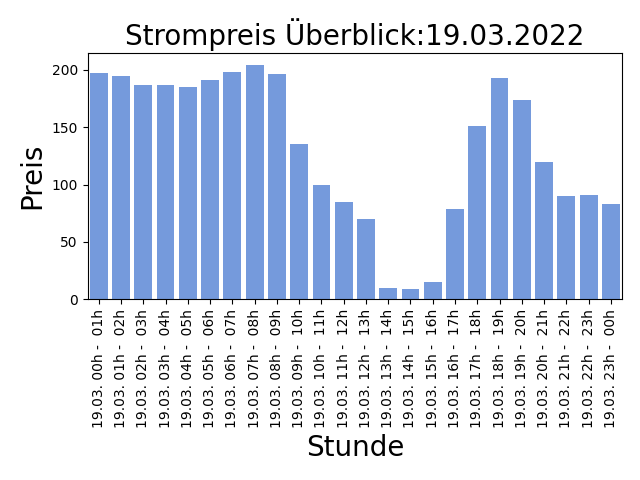
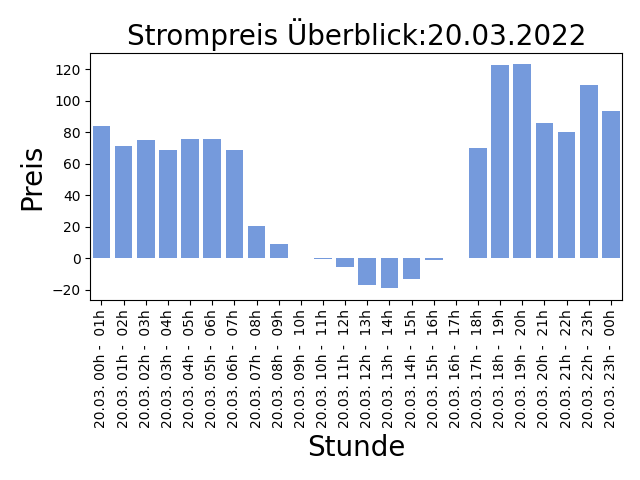
AUTOMATIC UPDATE PRICE LIST: 2022-03-19-14:30:14

diff --git a/README.md b/README.md
@@ -1,5 +1,5 @@
 
-## Strompreise für den 19.03.2022
+## Strompreise für den 20.03.2022
 
 Niedrige Preise deuten auf viel Sonnen und Windenergieerzeugung hin, ein hoher Anteil an erneuerbaren Energien bedeuted weniger CO2 Verbrauch!
 
@@ -7,31 +7,31 @@ Niedrige Preise deuten auf viel Sonnen und Windenergieerzeugung hin, ein hoher A
 
 | Stunde | Preis in Eur/MWh |
 |---|---|
-| 19.03. 00h -  01h | 196.67 | 
-| 19.03. 01h -  02h | 194.82 | 
-| 19.03. 02h -  03h | 187.02 | 
-| 19.03. 03h -  04h | 187.0 | 
-| 19.03. 04h -  05h | 185.06 | 
-| 19.03. 05h -  06h | 190.8 | 
-| 19.03. 06h -  07h | 198.23 | 
-| 19.03. 07h -  08h | 204.14 | 
-| 19.03. 08h -  09h | 196.11 | 
-| 19.03. 09h -  10h | 135.07 | 
-| 19.03. 10h -  11h | 99.55 | 
-| 19.03. 11h -  12h | 85.08 | 
-| 19.03. 12h -  13h | 69.71 | 
-| 19.03. 13h -  14h | 10.0 | 
-| **19.03. 14h -  15h** | **8.84** | 
-| 19.03. 15h -  16h | 14.74 | 
-| 19.03. 16h -  17h | 79.0 | 
-| 19.03. 17h -  18h | 151.01 | 
-| 19.03. 18h -  19h | 192.8 | 
-| 19.03. 19h -  20h | 173.27 | 
-| 19.03. 20h -  21h | 119.96 | 
-| 19.03. 21h -  22h | 89.99 | 
-| 19.03. 22h -  23h | 91.13 | 
-| 19.03. 23h -  00h | 82.85 | 
+| 20.03. 00h -  01h | 84.04 | 
+| 20.03. 01h -  02h | 70.99 | 
+| 20.03. 02h -  03h | 74.78 | 
+| 20.03. 03h -  04h | 68.38 | 
+| 20.03. 04h -  05h | 75.9 | 
+| 20.03. 05h -  06h | 75.9 | 
+| 20.03. 06h -  07h | 68.53 | 
+| 20.03. 07h -  08h | 20.56 | 
+| 20.03. 08h -  09h | 8.81 | 
+| 20.03. 09h -  10h | 0.07 | 
+| 20.03. 10h -  11h | -0.1 | 
+| 20.03. 11h -  12h | -5.31 | 
+| 20.03. 12h -  13h | -16.81 | 
+| **20.03. 13h -  14h** | **-19.04** | 
+| 20.03. 14h -  15h | -13.35 | 
+| 20.03. 15h -  16h | -1.06 | 
+| 20.03. 16h -  17h | 0.06 | 
+| 20.03. 17h -  18h | 69.93 | 
+| 20.03. 18h -  19h | 122.32 | 
+| 20.03. 19h -  20h | 122.95 | 
+| 20.03. 20h -  21h | 85.97 | 
+| 20.03. 21h -  22h | 80.08 | 
+| 20.03. 22h -  23h | 110.07 | 
+| 20.03. 23h -  00h | 93.36 | 
 
 Preise der EPEX Spot ® Strombörse (neue Preise werden täglich um 14:00 veröffentlicht für den kompletten nächsten Tag).
 
-letzte Aktualisierung:18.03.2022 14:30
+letzte Aktualisierung:19.03.2022 14:30
